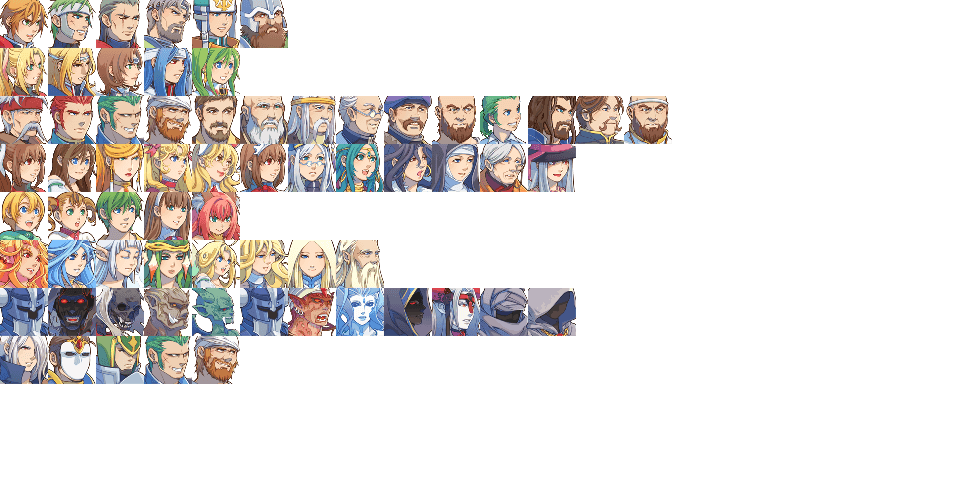
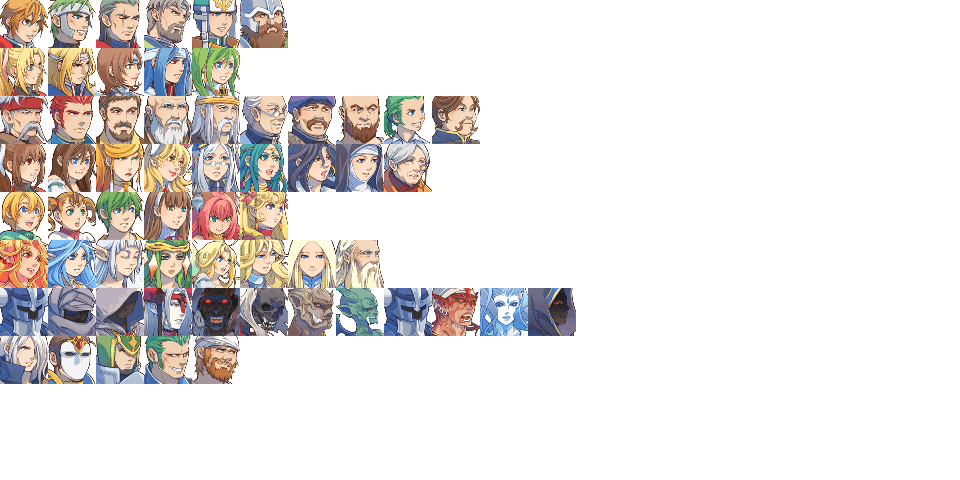
revamped face and npc names and npc sprite

Changed region(s): [[0.0938, 0.1875, 0.7188, 0.5], [0.0312, 0.5938, 0.625, 0.7188]]

diff --git a/server/quest/Qtutorial.js b/server/quest/Qtutorial.js
@@ -130,11 +130,11 @@ q.map.tutorial = function(){
 		
 		
 		//grave
-		actor(spot.h,"system","grave",{});
-		actor(spot.q,"system","grave",{});
+		actor(spot.h,"waypoint","grave",{});
+		actor(spot.q,"waypoint","grave",{});
 		
 		//chest
-		actor(spot.m,"system","chest",{
+		actor(spot.m,"loot","chest",{
 			'loot':function(key){
 				addItem(get,'Aiceshard',1);
 				return true;
@@ -149,10 +149,10 @@ q.map.tutorial = function(){
 		});		
 		
 		//block for switch
-		actor(spot.b,"block","2x2",{});
+		actor(spot.b,"pushable","rock2x2",{});
 		
 		//Block to block arrow
-		actor(spot.f,"block","2x2",{});
+		actor(spot.f,"pushable","rock2x2",{});
 		
 		
 		//Block that disppear when bee dead
@@ -185,7 +185,7 @@ q.map.tutorial = function(){
 		});
 		
 		//Switch
-		actor(spot.c,"system","switch",{
+		actor(spot.c,"switch","box",{
 			'switch':{on:q.event.switchActivate},
 		});
 		

diff --git a/server/client/js/shared/Db_sprite.js b/server/client/js/shared/Db_sprite.js
@@ -59,10 +59,17 @@ Init.db.sprite = function(){
 		
 	//}
     //{ NPC
-    a["jenny"] ={"src":"actor/jenny.png","size":2,"side":[0,1,2,3],"hpBar":-22,"legs":16,
+   
+	
+	var list = {'warrior-male':6,'warrior-female':5,'villager-male':10,'villager-female':9,'villager-child':6,'fairy':8,'bad-monster':3,'bad-human':5};
+	for(var i in list)	for(var j = 0; j < list[i]; j++) a[i + j] = {"src":"actor/" + i + j +".png",rgpvx:1};
+
+	a["villager-female1"] ={"src":"actor/villager-female1.png","size":2,"side":[0,1,2,3],"hpBar":-22,"legs":16,
     	"preHitBox":[ -16,16,-16,16 ],"preBumperBox":[ -16,16,-16,16 ],"anim": {
     		"walk":{"startY":0,"frame":3,"sizeX":32,"sizeY":32,"dir":4,"spd":0.5,"walk":1,"next":"walk"},
     	}};
+	
+		
     //}	
     //{ ENEMY
     a["slime"] ={"src":"actor/slimeJerome.png","size":1,"side":[0,1,2,3],"hpBar":-110,"legs":70,

diff --git a/server/quest/QgoblinJewel.js b/server/quest/QgoblinJewel.js
@@ -379,9 +379,9 @@ q.map.goblinUnderground = function(){
 			teleport:q.event.teleOutUnderground,
 		});
 		
-		s.actor(spot.g1,"system","graveSafe",{});
+		s.actor(spot.g1,"waypoint","graveSafe",{});
 		
-		s.actor(spot.q1,"system","chest",{
+		s.actor(spot.q1,"loot","chest",{
 			loot:q.event.getJewel
 		});
 		*/
@@ -412,14 +412,16 @@ q.map.goblinLand = function(){
 	a.load = function(spot){
 		//Grave
 		
-		s.actor(spot.n1,"npc","ringo",{
+		s.actor(spot.n1,"npc","regular",{
+			name:'Ringo',
+			'sprite,name':"villager-male0",
 			angle:90,
 			nevermove:1,
 			dialogue:q.event.talkRingo,
 		});
 		
 		
-		s.actor(spot.q1,"system","chest",{	//TOFIX LOOK
+		s.actor(spot.q1,"loot","chest",{	//TOFIX LOOK
 			angle:90,
 			nevermove:1,
 			loot:q.event.getFlower,

diff --git a/server/Db_enemy.js b/server/Db_enemy.js
@@ -739,15 +739,26 @@ Init.db.npc = function(){
 	
 
 	//{NPC
-	a["npc"] = {}; //{
-	a["npc"]["ringo"] = {  //{
+	a["warrior"] = {}; //{
+	a["warrior"]["male0"] = {  //{
 		"name":"Ringo",
-		"sprite":{'name':"jenny",'sizeMod':1},
+		"sprite":{'name':"warrior-male0",'sizeMod':1},
 		'nevercombat':1,
 		"acc":0.5,
 		"maxSpd":3,
 	}; //}
 	//}
+	
+	
+	a["npc"] = {}; //{
+	a["npc"]["regular"] = {  //{
+		"name":"Ringo",
+		"sprite":{'name':"villager-male0",'sizeMod':1},
+		'nevercombat':1,
+		"acc":0.5,
+		"maxSpd":3,
+	}; //}
+	
 	//}
 	
 	//{System 
